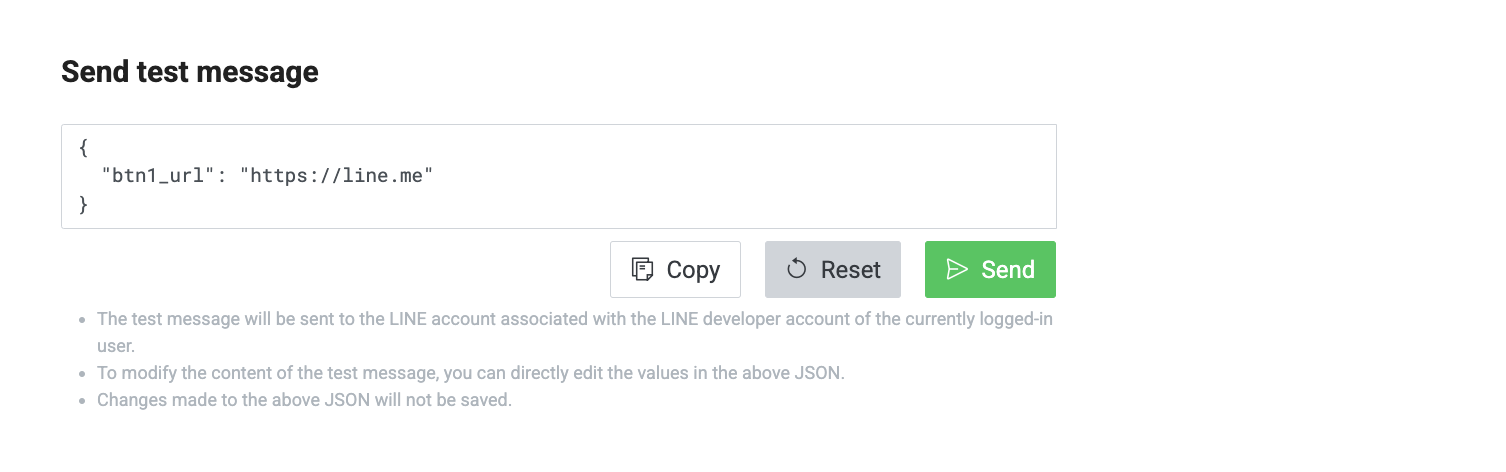
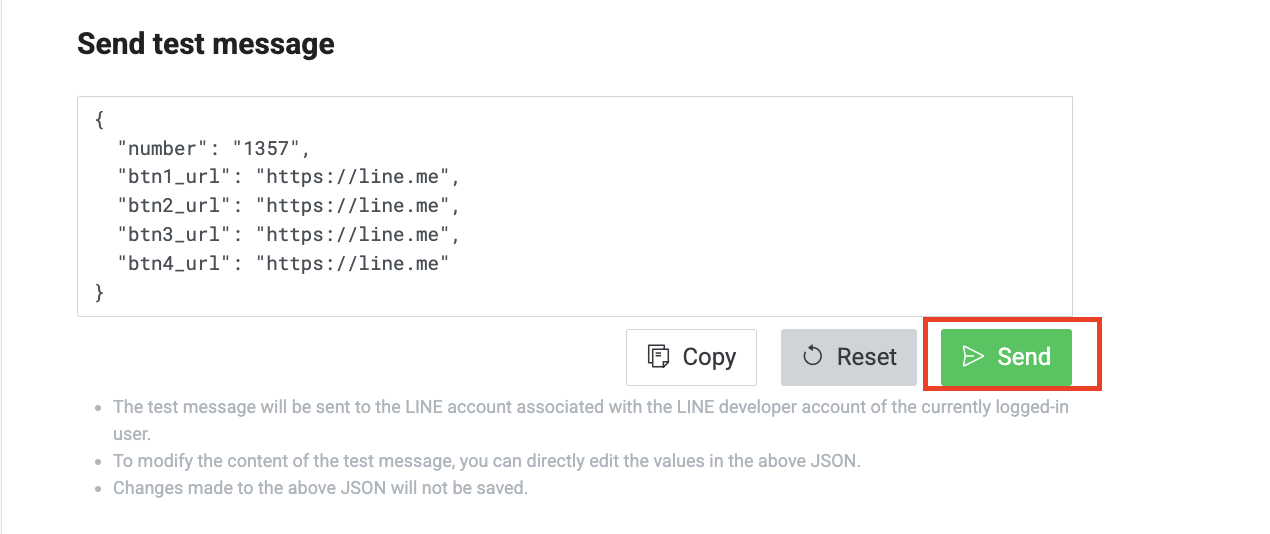
more img

diff --git a/vibe-coding-line-mini-app.md b/vibe-coding-line-mini-app.md
@@ -408,7 +408,7 @@ Keep the existing UI, styling, and reservation functionality unchanged.
 3. เลือกเพื่อนหรือกลุ่มที่ต้องการแชร์
 4. ตรวจสอบว่าได้รับ Flex Message คำเชิญจองโต๊ะ
 
-![Flex Message คำเชิญจองโต๊ะ](img/6.5.png)
+![Flex Message คำเชิญจองโต๊ะ](img/6.4png)
 
 
 
@@ -561,7 +561,6 @@ Please provide the complete, updated code blocks for:
 ### ทดสอบ Service Message
 - จองโต๊ะใน MINI App 
 - ได้รับ Service Message ผ่าน LINE MINI App Notice
-
 
 
 